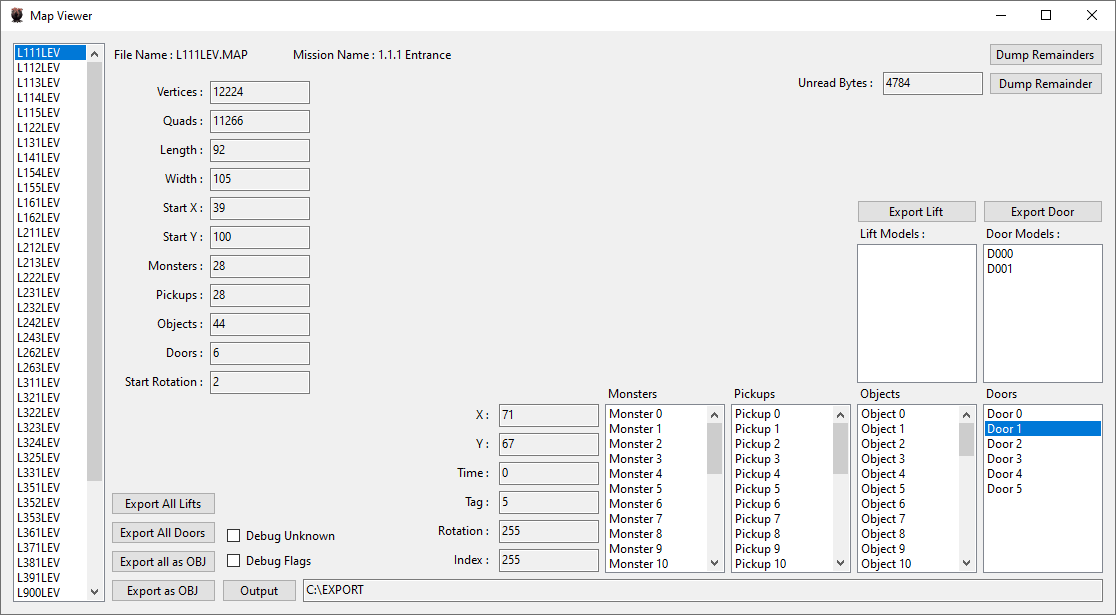
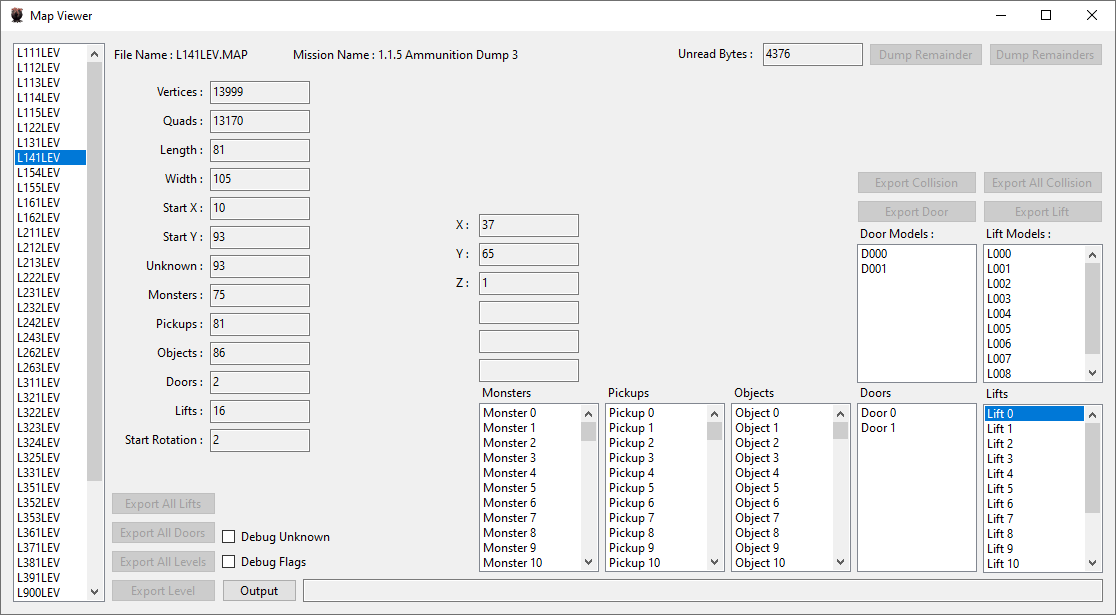
level viewer ui updated

diff --git a/ALTViewer/MapViewer.Designer.cs b/ALTViewer/MapViewer.Designer.cs
@@ -681,7 +681,7 @@
             // textBox19
             // 
             textBox19.AccessibleDescription = "Remaining bytes at the end of the MAP0 section which have not been processed.";
-            textBox19.Location = new Point(882, 41);
+            textBox19.Location = new Point(762, 12);
             textBox19.Name = "textBox19";
             textBox19.ReadOnly = true;
             textBox19.Size = new Size(100, 23);
@@ -690,7 +690,7 @@
             // label31
             // 
             label31.AutoSize = true;
-            label31.Location = new Point(794, 44);
+            label31.Location = new Point(674, 15);
             label31.Name = "label31";
             label31.Size = new Size(82, 15);
             label31.TabIndex = 61;
@@ -742,7 +742,7 @@
             // button7
             // 
             button7.Enabled = false;
-            button7.Location = new Point(988, 41);
+            button7.Location = new Point(868, 12);
             button7.Name = "button7";
             button7.Size = new Size(114, 23);
             button7.TabIndex = 66;
@@ -765,7 +765,7 @@
             // 
             button9.AccessibleDescription = "Export the selected door as an OBJ file.";
             button9.Enabled = false;
-            button9.Location = new Point(982, 169);
+            button9.Location = new Point(856, 169);
             button9.Name = "button9";
             button9.Size = new Size(120, 23);
             button9.TabIndex = 68;
@@ -789,7 +789,7 @@
             // 
             button11.AccessibleDescription = "Export the selected lift as an OBJ file.";
             button11.Enabled = false;
-            button11.Location = new Point(856, 169);
+            button11.Location = new Point(982, 169);
             button11.Name = "button11";
             button11.Size = new Size(120, 23);
             button11.TabIndex = 70;
